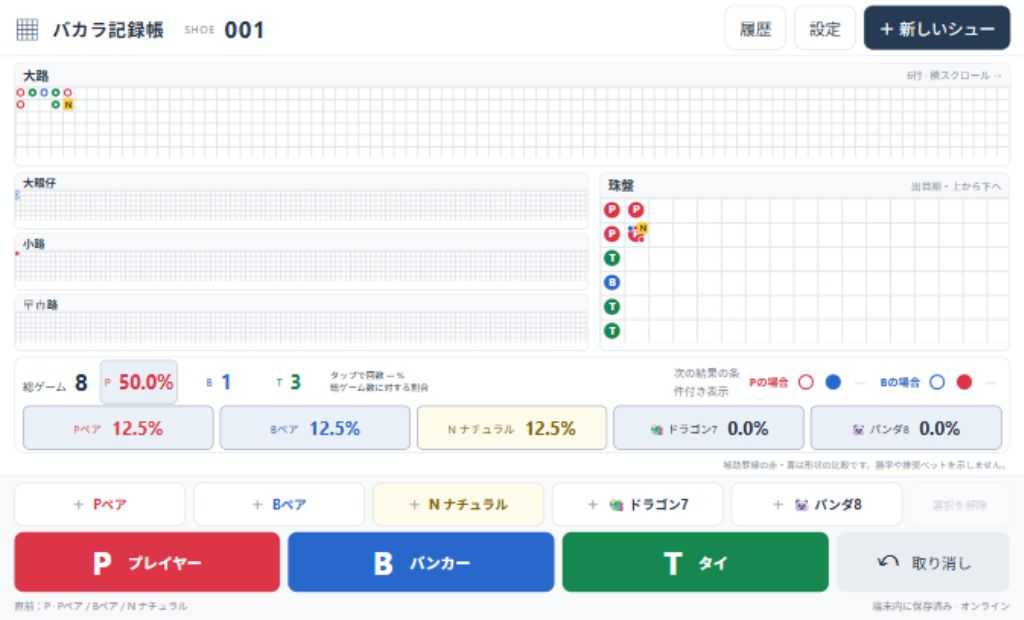
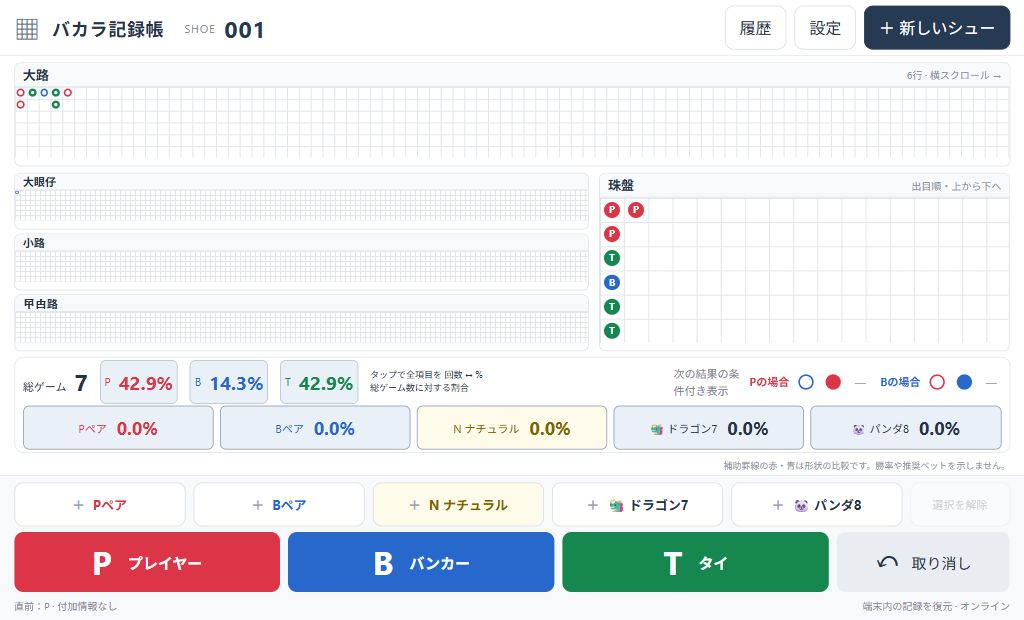
Toggle all count and percentage statistics together

diff --git a/src/main.tsx b/src/main.tsx
@@ -9,8 +9,8 @@ const labels:Record<keyof Flags,string>={pPair:'Pペア',bPair:'Bペア',natural
 function Mark({value,kind='big'}:{value:string;kind?:string}){return <span className={`mark ${value} ${kind}`}>{kind==='bead'?value:kind==='slash'?'╱':''}</span>;}
 function Badges({games}:{games:Game[]}){return <>{games.some(g=>g.bPair)&&<i className="pair bpair"/>}{games.some(g=>g.pPair)&&<i className="pair ppair"/>}<span className="badges">{games.some(g=>g.natural)&&<b>N</b>}{games.some(g=>g.dragon)&&'🐲'}{games.some(g=>g.panda)&&'🐼'}</span></>;}
 function Board({title,cells,kind,min=24,onCell}:{title:string;cells:Cell[];kind?:string;min?:number;onCell?:(c:Cell)=>void}){const ref=useRef<HTMLDivElement>(null);const [cellSize,setCellSize]=useState<number>();useEffect(()=>{const el=ref.current;if(!el)return;const resize=()=>{setCellSize(getComputedStyle(el).getPropertyValue('--fit-grid').trim()==='1'?Math.max(1,Math.floor((el.clientHeight-8)/6*100)/100):undefined);};const observer=new ResizeObserver(resize);observer.observe(el);resize();return()=>observer.disconnect();},[]);const last=cells.at(-1);useEffect(()=>{if(ref.current)ref.current.scrollLeft=ref.current.scrollWidth;},[cells.length,cellSize]);const cols=Math.max(min,...cells.map(c=>c.x+2));return <section className={`board ${kind||'big'}`} style={{'--cell':cellSize?`${cellSize}px`:undefined} as React.CSSProperties}><div className="board-title"><h2>{title}</h2><span>{kind==='bead'?'出目順・上から下へ':'6行 · 横スクロール →'}</span></div><div ref={ref} className="scroll"><div className="grid" style={{width:`calc(var(--cell) * ${cols})`}}>{cells.map((c,i)=>{const content=<><Mark value={c.value} kind={kind}/><Badges games={c.games}/></>;return onCell?<button key={i} className={`cell ${c===last?'latest':''}`} style={{left:`calc(var(--cell) * ${c.x})`,top:`calc(var(--cell) * ${c.y})`}} onClick={()=>onCell(c)} aria-label={`${title} ${c.games.map(g=>g.winner).join('、')} 詳細`}>{content}</button>:<div key={i} className="cell" style={{left:`calc(var(--cell) * ${c.x})`,top:`calc(var(--cell) * ${c.y})`}}>{content}</div>;})}</div></div></section>;}
-function Stat({label,count,total,tone=''}:{label:string;count:number;total:number;tone?:string}){const [percent,setPercent]=useState(false);return <button className={`stat-toggle ${tone}`} onClick={()=>setPercent(v=>!v)} aria-pressed={percent} aria-label={`${label} ${percent?`${total?((count/total)*100).toFixed(1):'0.0'}%`:`${count}回`}。タップで${percent?'回数':'総ゲーム数に対する割合'}に切替`} title="タップで回数・割合を切替（総ゲーム数が分母）"><small>{label}</small><strong>{percent?`${total?((count/total)*100).toFixed(1):'0.0'}%`:count}</strong></button>;}
-function App(){const [data,setData]=useState<Data>();const [view,setView]=useState('');const [flags,setFlags]=useState(emptyFlags);const [panel,setPanel]=useState('');const [detail,setDetail]=useState<Cell>();const [error,setError]=useState('');const [status,setStatus]=useState('読み込み中');const [busy,setBusy]=useState(false);const [online,setOnline]=useState(navigator.onLine);const [pending,setPending]=useState<Data>();const lock=useRef(false);const file=useRef<HTMLInputElement>(null);
+function Stat({label,count,total,tone='',percent,onToggle}:{label:string;count:number;total:number;tone?:string;percent:boolean;onToggle:()=>void}){return <button className={`stat-toggle ${tone}`} onClick={onToggle} aria-pressed={percent} aria-label={`${label} ${percent?`${total?((count/total)*100).toFixed(1):'0.0'}%`:`${count}回`}。タップで${percent?'回数':'総ゲーム数に対する割合'}に切替`} title="タップで全項目の回数・割合を一括切替（総ゲーム数が分母）"><small>{label}</small><strong>{percent?`${total?((count/total)*100).toFixed(1):'0.0'}%`:count}</strong></button>;}
+function App(){const [statsPercent,setStatsPercent]=useState(false);const [data,setData]=useState<Data>();const [view,setView]=useState('');const [flags,setFlags]=useState(emptyFlags);const [panel,setPanel]=useState('');const [detail,setDetail]=useState<Cell>();const [error,setError]=useState('');const [status,setStatus]=useState('読み込み中');const [busy,setBusy]=useState(false);const [online,setOnline]=useState(navigator.onLine);const [pending,setPending]=useState<Data>();const lock=useRef(false);const file=useRef<HTMLInputElement>(null);
 useEffect(()=>{read().then(v=>{const d=v?validateBackup(v):initial();setData(d);setView(d.currentId);setStatus(v?'端末内の記録を復元':'端末内に保存');}).catch(()=>{setError('端末内の保存領域を開けません。Safariの設定を確認し、再読み込みしてください。');});const on=()=>setOnline(navigator.onLine);addEventListener('online',on);addEventListener('offline',on);return()=>{removeEventListener('online',on);removeEventListener('offline',on);};},[]);
 async function commit(next:Data){if(lock.current)return false;lock.current=true;setBusy(true);try{await save(next);setData(next);setStatus('端末内に保存済み');setError('');return true;}catch{setError('保存に失敗しました。記録は追加していません。空き容量を確認してください。');return false;}finally{lock.current=false;setBusy(false);}}
 if(!data)return <main className="loading"><h1>バカラ記録帳</h1><p>{error||'記録を読み込んでいます…'}</p></main>;
@@ -20,7 +20,7 @@ function toggle(k:keyof Flags){setFlags(f=>{const n={...f,[k]:!f[k]};if(n[k]&&['
 const count=(k:keyof Flags)=>shoe.games.filter(g=>g[k]).length;
 return <main><header><div className="brand"><span className="brand-icon">▦</span><div><h1>バカラ記録帳</h1><small>端末内だけの、あなたの記録</small></div></div><div className="shoe">SHOE <strong>{String(shoe.number).padStart(3,'0')}</strong>{!active&&<span>履歴閲覧中</span>}</div><nav><button onClick={()=>setPanel('history')}>履歴</button><button onClick={()=>setPanel('settings')}>設定</button><button className="new" onClick={()=>setPanel('new')} disabled={busy}>＋ 新しいシュー</button></nav></header>
 <div className="workspace"><Board title="大路" cells={displayRoad(shoe.games)} onCell={setDetail}/><div className="middle"><div className="derived">{['大眼仔','小路','曱甴路'].map((t,i)=><Board key={t} title={t} cells={r.derived[i]} kind={['ring','solid','slash'][i]} min={28}/>)}</div><Board title="珠盤" kind="bead" cells={bead} min={12} onCell={setDetail}/></div>
-<section className="summary"><div className="counts"><div><small>総ゲーム</small><strong>{shoe.games.length}</strong></div>{(['P','B','T'] as const).map(w=><Stat key={w} label={w} tone={w} count={shoe.games.filter(g=>g.winner===w).length} total={shoe.games.length}/>)}<small className="stat-help">タップで回数 ↔ %<br/>総ゲーム数に対する割合</small></div><div className="previews"><small>次の結果の条件付き表示</small>{(['P','B'] as const).map(w=><div key={w}><b className={w}>{w}の場合</b>{preview(shoe.games,w).map((v,i)=><span key={i} title={['大眼仔','小路','曱甴路'][i]}>{v?<Mark value={v} kind={['ring','solid','slash'][i]}/>:<em>—</em>}</span>)}</div>)}</div><div className="extra-stats">{(Object.keys(labels) as (keyof Flags)[]).map(k=><Stat key={k} label={labels[k]} tone={k} count={count(k)} total={shoe.games.length}/>)}</div></section>
+<section className="summary"><div className="counts"><div><small>総ゲーム</small><strong>{shoe.games.length}</strong></div>{(['P','B','T'] as const).map(w=><Stat key={w} label={w} tone={w} count={shoe.games.filter(g=>g.winner===w).length} total={shoe.games.length} percent={statsPercent} onToggle={()=>setStatsPercent(v=>!v)}/>)}<small className="stat-help">タップで全項目を 回数 ↔ %<br/>総ゲーム数に対する割合</small></div><div className="previews"><small>次の結果の条件付き表示</small>{(['P','B'] as const).map(w=><div key={w}><b className={w}>{w}の場合</b>{preview(shoe.games,w).map((v,i)=><span key={i} title={['大眼仔','小路','曱甴路'][i]}>{v?<Mark value={v} kind={['ring','solid','slash'][i]}/>:<em>—</em>}</span>)}</div>)}</div><div className="extra-stats">{(Object.keys(labels) as (keyof Flags)[]).map(k=><Stat key={k} label={labels[k]} tone={k} count={count(k)} total={shoe.games.length} percent={statsPercent} onToggle={()=>setStatsPercent(v=>!v)}/>)}</div></section>
 <div className="legend">補助罫線の赤・青は形状の比較です。勝率や推奨ベットを示しません。</div></div>
 <footer><div className="input-meta"><span>{active?'付加情報を選択 → 結果をタップ':'過去のシューは閲覧専用です'}</span><button disabled={busy||!Object.values(flags).some(Boolean)} onClick={()=>setFlags(emptyFlags())}>選択を解除</button></div><div className="flag-buttons">{(Object.keys(labels) as (keyof Flags)[]).map(k=><button key={k} disabled={!active||busy} className={`flag ${k} ${flags[k]?'selected':''}`} aria-pressed={flags[k]} onClick={()=>toggle(k)}><span className="check">{flags[k]?'✓':'＋'}</span>{labels[k]}</button>)}</div><div className="results">{(['P','B','T'] as const).map(w=><button key={w} className={`result ${w}`} disabled={!active||busy||(flags.dragon&&w!=='B')||(flags.panda&&w!=='P')} onClick={()=>add(w)}><strong>{w}</strong><span>{{P:'プレイヤー',B:'バンカー',T:'タイ'}[w]}</span></button>)}<button className="undo" disabled={!active||!last||busy} onClick={async()=>{if(await commit({...data,shoes:data.shoes.map(s=>s.id===shoe.id?{...s,games:s.games.slice(0,-1)}:s)}))setFlags(emptyFlags());}}>↶<span>取り消し</span></button></div><div className="status"><span>直前：{last?`${last.winner} · ${Object.entries(labels).filter(([k])=>last[k as keyof Flags]).map(([,v])=>v).join(' / ')||'付加情報なし'}`:'まだ記録がありません'}</span><span>{busy?'保存中…':status} · {online?'オンライン':'オフライン'}</span></div>{(flags.dragon||flags.panda)&&<p className="constraint">{flags.dragon?'ドラゴン7：Bのみ登録できます':'パンダ8：Pのみ登録できます'}</p>}{error&&<p role="alert" className="error">{error}</p>}</footer>
 {(panel||detail)&&<div className="overlay" onClick={()=>{setPanel('');setDetail(undefined);}}><section className="modal" role="dialog" aria-modal="true" aria-label={detail?'ゲーム詳細':'メニュー'} onClick={e=>e.stopPropagation()}><div className="modal-head"><h2>{detail?'ゲーム詳細':({history:'シューの履歴',settings:'設定・バックアップ',new:'新しいシュー',stats:'付加情報の集計',import:'バックアップの読み込み'} as Record<string,string>)[panel]}</h2><button aria-label="閉じる" onClick={()=>{setPanel('');setDetail(undefined);}}>✕</button></div>

diff --git a/README.md b/README.md
@@ -49,7 +49,7 @@ GitHub Pagesの例（公開リポジトリを利用）：
 
 ## 保存・バックアップ
 
-集計欄にはP/B/Tと付加情報5種類を常時表示します。各集計をタップすると回数と割合を切り替えます。割合の分母は閲覧中シューの総ゲーム数（タイを含む）、小数点以下1桁です。0ゲームは0.0%になります。両ペアなどは重複して数えるため、付加情報の割合の合計は100%とは限りません。
+集計欄にはP/B/Tと付加情報5種類を常時表示します。いずれかの集計をタップすると、P/B/Tと付加情報5種類の回数と割合を一括で切り替えます。割合の分母は閲覧中シューの総ゲーム数（タイを含む）、小数点以下1桁です。0ゲームは0.0%になります。両ペアなどは重複して数えるため、付加情報の割合の合計は100%とは限りません。
 
 - IndexedDBの`baccarat-notebook` → `state` → `data`にシュー別の全ゲームを自動保存します。保存成功後に画面を更新します。保存失敗は画面で通知し、登録した扱いにしません。
 - 勝者・時刻・両ペア・N・ドラゴン7・パンダ8が元データです。罫線は毎回再計算します。
